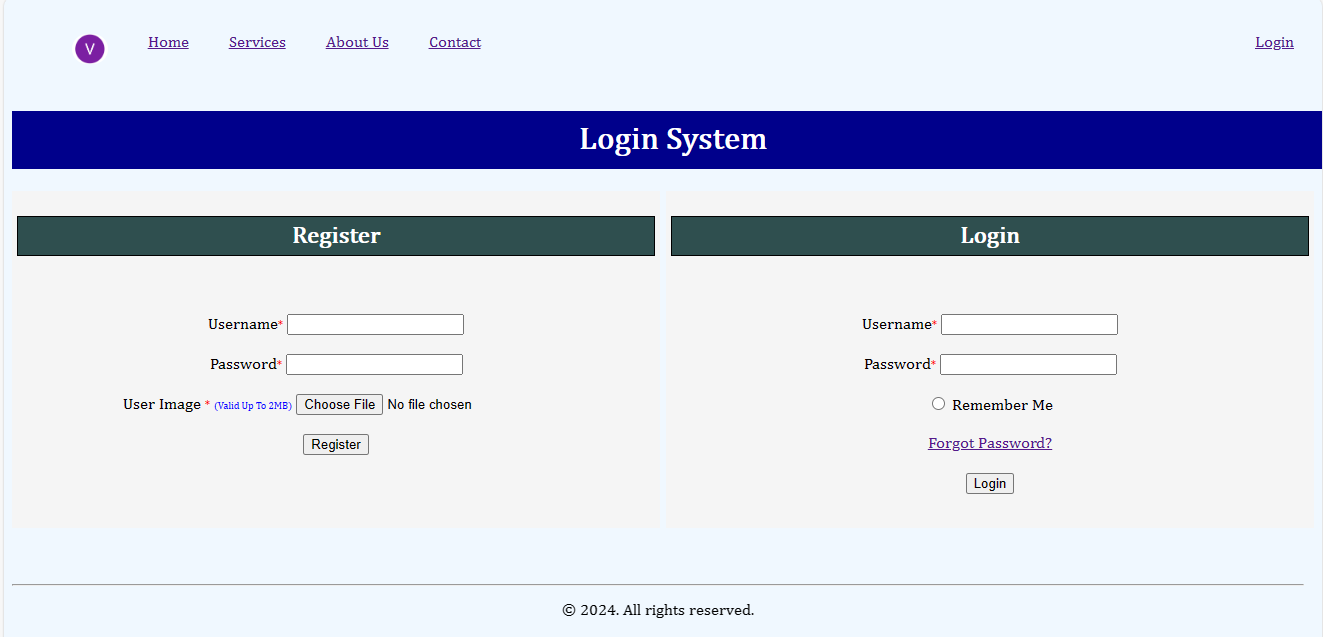
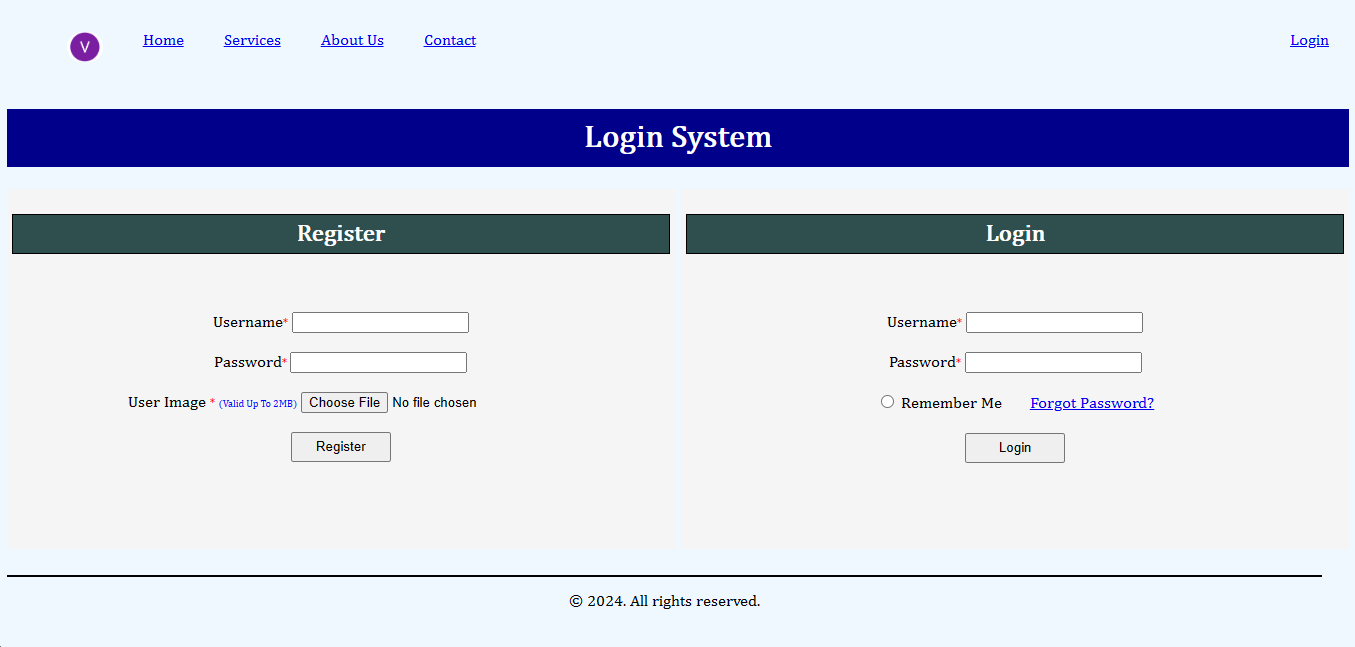
UI fixes with Toggle dropdown

diff --git a/assets/css/custom.css b/assets/css/custom.css
@@ -11,21 +11,30 @@ body {
     height:auto;
     width:auto;
 }
+.section {
+    min-height: 70vh;
+}
 form {
-    min-height: 50vh;
+    height: 350px;
+}
+button, input[type=submit] {
+    cursor: pointer;
+    width: 100px;
+    height: 30px;
 }
 @media screen and (max-width: 1024px) {
     form {
-        height:auto;
         width:auto;
         padding:5px;
         text-align: center;
         background: whitesmoke;
     }
+    footer {
+        position: fixed;
+    }
 }
 @media screen and (min-width: 1024px) {
     form {
-        height:auto;
         width:49%;
         padding:5px;
         text-align: center;
@@ -45,7 +54,6 @@ h1 {
     color: #fff;
     font-family: math;
     position: relative;
-    width: 100%;
     z-index: -1;
 }
 h2 {
@@ -70,7 +78,6 @@ h2 {
     list-style: none;
 }
 footer {
-    position: fixed;
     bottom: 0;
     width:98%;
     text-align: center;
@@ -78,4 +85,11 @@ footer {
 .mandetory {
     color:red;
     font-size:12px;
+}
+.equiv {
+    color:darkblue;
+    background: lightskyblue;
+}
+hr {
+    border: solid 1px;
 }

diff --git a/assets/js/custom.js b/assets/js/custom.js
@@ -7,7 +7,8 @@ function validateSize(input) {
     }
 }
 
-function menuToggle() {
+function menuToggle(e) {
     const toggleMenu = document.querySelector(".user-account-menu");
     toggleMenu.classList.toggle("active");
+    e.classList.toggle("equiv");
 }

diff --git a/app-common-config/header.php b/app-common-config/header.php
@@ -2,6 +2,7 @@
 <html>
     <head>
         <title>Login System</title>
+		<!-- <meta name="viewport" content="width=device-width, initial-scale=1.0"> -->
         <link href="assets/css/custom.css" rel="stylesheet">
         <?php if(isset($_SESSION['user_id'])) {?>
             <style>
@@ -17,9 +18,6 @@
                 .section {
                     text-align: center;
                 }
-                form {
-                    min-height: auto;
-                }
                 .user-account-menu {
                     list-style: none;
                     float: right;
@@ -27,19 +25,14 @@
                     margin-top: -30px;
                     padding: 5px;
                     display: none;
+					position: absolute;
+					right: 8px;
                 }
                 .active {
                     display:block;
                 }
                 ul.user-account-menu.active li {
                     padding: 10px;
-                }
-                h1 {
-                    position:fixed;
-                }
-                #logout {
-                    width: 100px;
-                    height: 30px;
                 }
             </style>
         <?php } ?>
@@ -57,11 +50,12 @@
                             <li><a href="#">About Us</a></li>
                             <li><a href="#">Contact</a></li>
                             <?php if(isset($_SESSION['user_id'])) {?>
-                            <li style="margin-left: auto;">
-                                <img style="border-radius: 30px;float: right;" onclick="menuToggle();" src="<?php if(isset($_SESSION['uimg'])) echo $base_url.$_SESSION['uimg']?>" height="50" width="50"/>
+                            <li style="margin-left: auto; padding: 10px; border-radius: 10px; background: lightblue;margin-top: 0px;">
+                                <img style="border-radius: 30px;float: right;border: solid #8d8fe9 2px;" src="<?php if(isset($_SESSION['uimg'])) echo $base_url.$_SESSION['uimg']?>" height="50" width="50"/>
                                 <br/>
                                 <label for="uname">Welcome, <?php if(isset($_SESSION['uname'])) echo htmlspecialchars($_SESSION['uname']);?></label>
                             </li>
+                            <li><span style="margin-right: 40px;font-size:45px;cursor:pointer; box-shadow: 0 5px 5px 0 rgba(0,0,0,0.24), 0 5px 5px 0 rgba(0,0,0,0.19);" onClick="menuToggle(this);">&equiv;</span></li>
                             <?php } else { ?>
                                 <li style="margin-left: auto;"><a href="<?php echo $base_url;?>">Login</a></li>
                             <?php }?>

diff --git a/app-common-config/footer.php b/app-common-config/footer.php
@@ -1,12 +1,11 @@
-    </div>
-</div>
-<?php if('/loginSystemVanillaPHP/index.php'==$_SERVER['REQUEST_URI'] OR '/loginSystemVanillaPHP/'==$_SERVER['REQUEST_URI']) ?>
-    <script src="assets/js/custom.js"></script>
-
-        <footer>
-            <hr />
-            <p>&copy; 2024. All rights reserved.</p>
-        </footer>
+                <footer>
+                    <?php if('/loginSystemVanillaPHP/index.php'==$_SERVER['REQUEST_URI'] OR '/loginSystemVanillaPHP/'==$_SERVER['REQUEST_URI']) ?>
+                    <script src="assets/js/custom.js"></script>
+                    <hr />
+                    <p>&copy; 2024. All rights reserved.</p>
+                </footer>
+            </div>
+        </div>
     </body>
 </html>
 <?php

diff --git a/content/index.php b/content/index.php
@@ -46,8 +46,7 @@
 
                 <input type="radio" id="remember_me" name="remember_me"/>
                 <label for="remember_me">Remember Me</label>
-                <br/><br/>
-
+                &nbsp;&nbsp;&nbsp;&nbsp;&nbsp;
                 <a href="forgot-password.php">Forgot Password?</a>
                 <br/><br/>
 
